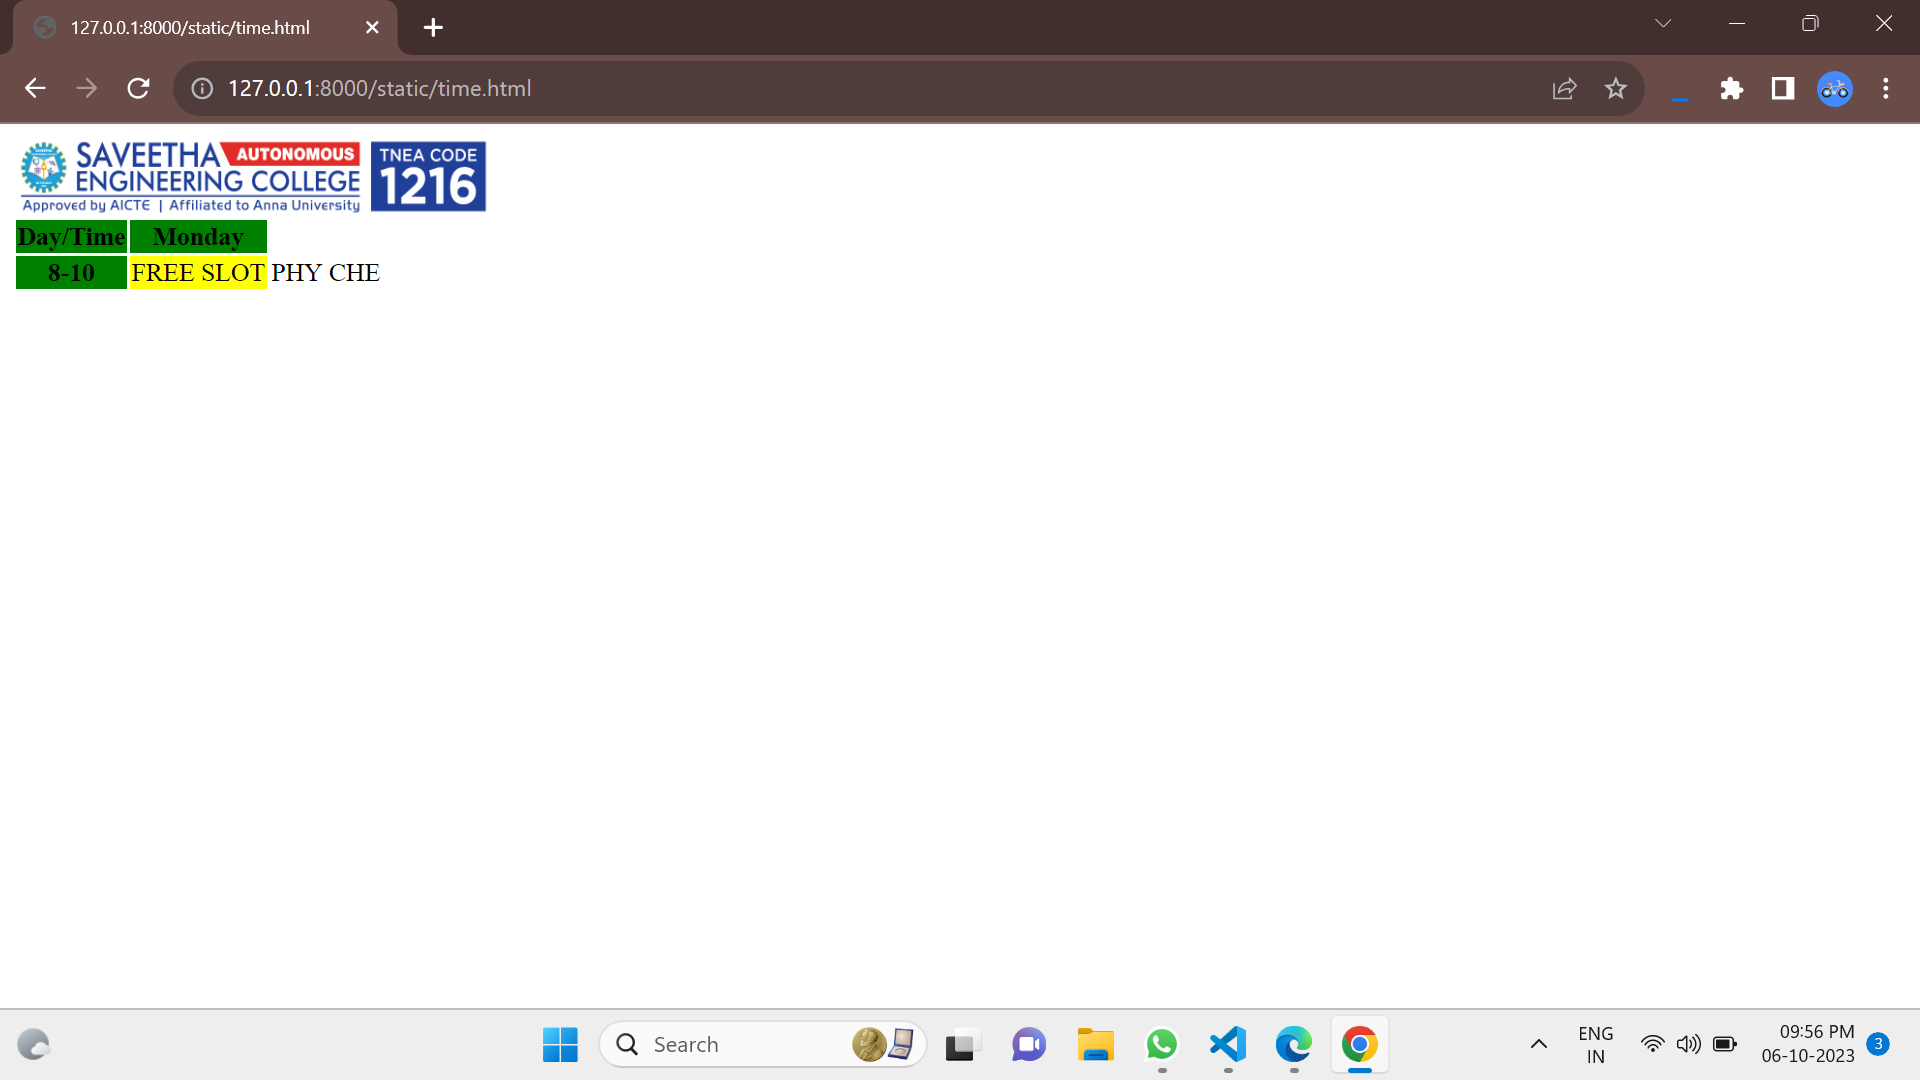
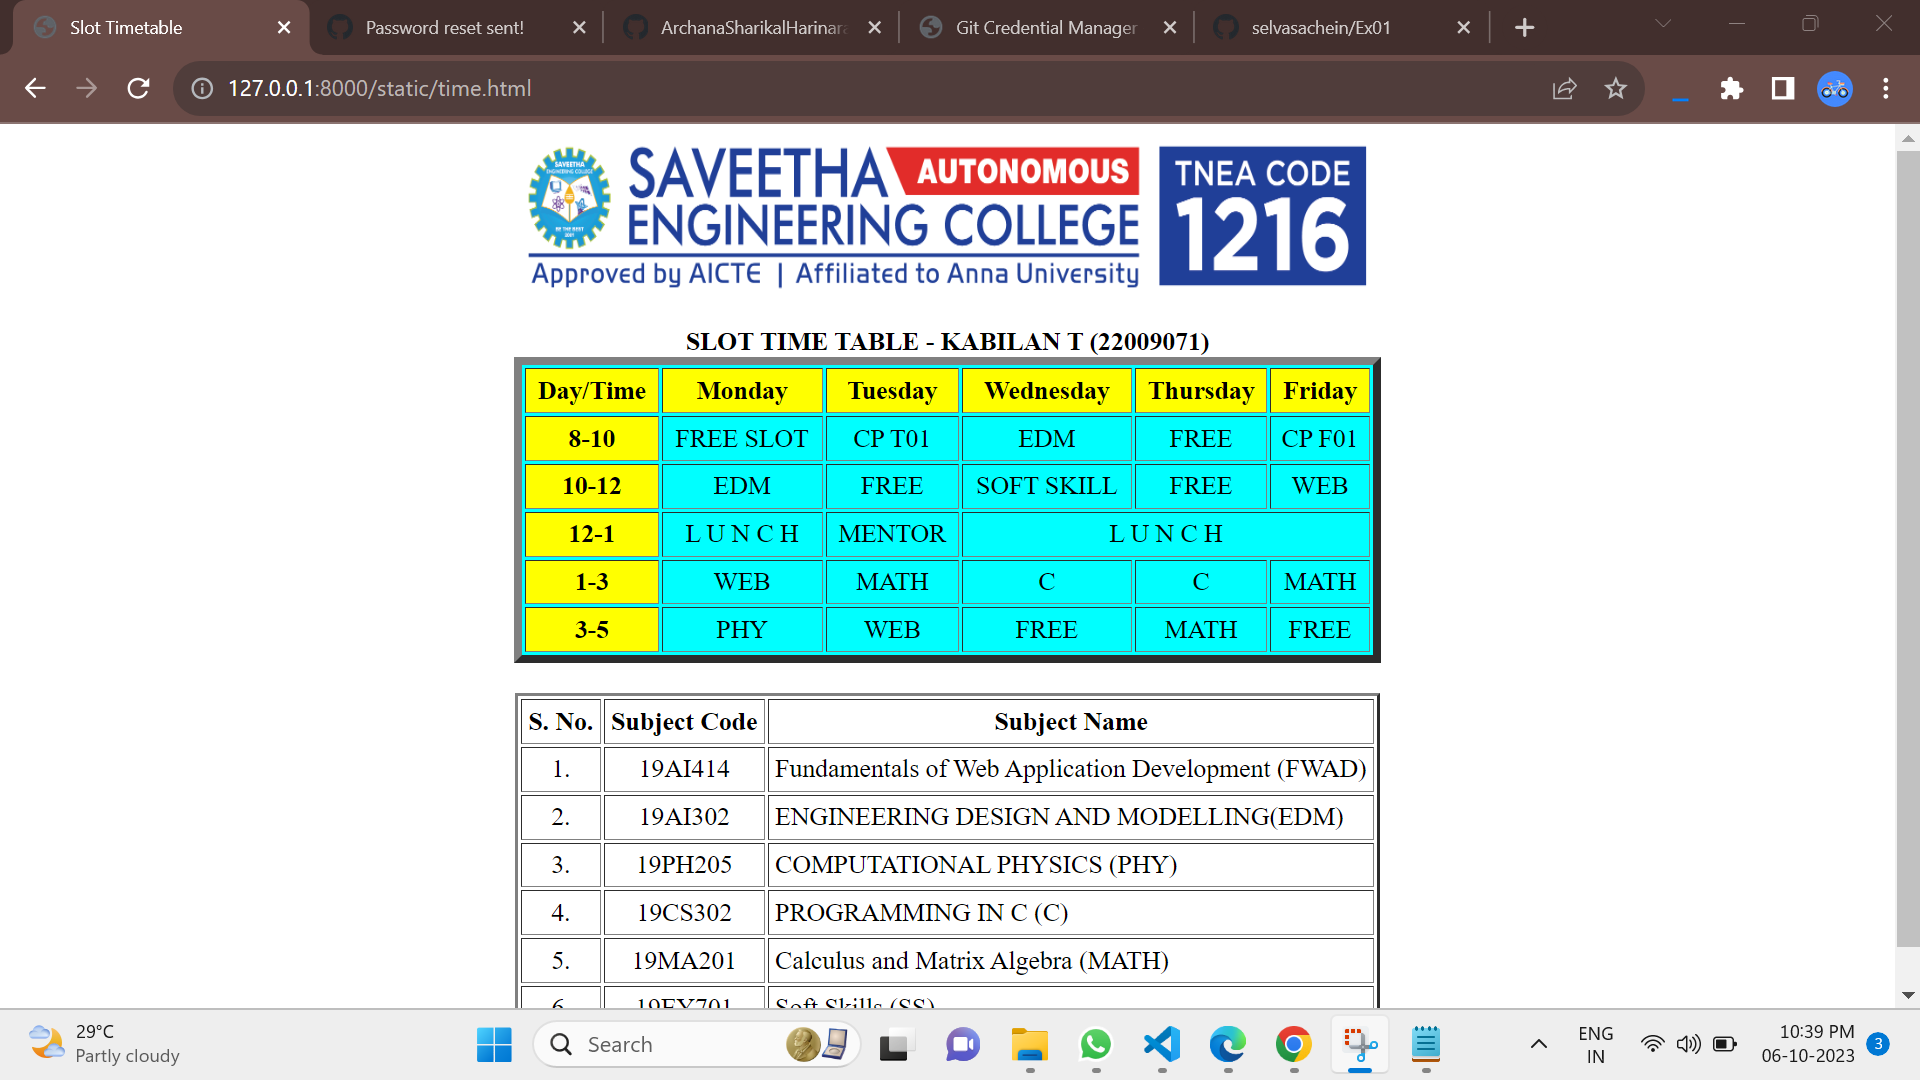
success

diff --git a/kabilan/newapp/static/time.html b/kabilan/newapp/static/time.html
@@ -1,17 +1,100 @@
-<html>
-    <body>
-        <img src="logo.png" width="300" height="50">
-        <table>
-            <tr bgcolor="green">
-                <th>Day/Time</th>
-                <th>Monday</th>
-            </tr>
-            <tr>
-                <th bgcolor="green">8-10</th>
-                <td bgcolor="yellow" colspan="3">FREE SLOT</td>
-                <td>PHY</td>
-                <td>CHE</td>
-            </tr>
-        </table>
-    </body>
+<!DOCTYPE html>
+<html lang="en">
+<head>
+<title>Slot Timetable</title>
+</head>
+<body>
+<center>
+<img src="logo.png" height="100" width="540">
+</center>
+<br>
+<table align="center" width="540" cellspacing="2" cellpadding="4" border="5" bgcolor="cyan">
+<caption><b>SLOT TIME TABLE - KABILAN T (22009071)</b></caption>
+<tr align="center">
+<th bgcolor="yellow">Day/Time</th>
+<th bgcolor="yellow">Monday</th>
+<th bgcolor="yellow">Tuesday</th>
+<th bgcolor="yellow">Wednesday</th>
+<th bgcolor="yellow">Thursday</th>
+<th bgcolor="yellow">Friday</th>
+</tr>
+<tr align="center">
+<th bgcolor="yellow">8-10</th>
+<td colspan="1">FREE SLOT</td>
+<td>CP T01</td>
+<td>EDM</td>
+<td>FREE</td>
+<td>CP F01</td>
+
+</tr>
+<tr align="center">
+<th bgcolor="yellow">10-12</th>
+<td>EDM</td>
+<td>FREE</td>
+<td>SOFT SKILL</td>
+<td>FREE</td>
+<td>WEB</td>
+</tr>
+<tr>
+<th bgcolor="yellow">12-1</th>
+<td colspan="1" align="center">L U N C H</td>
+<td colspan="1" align="center">MENTOR</td>
+<td colspan="3" align="center"> L  U  N  C  H</td>
+</tr>
+<tr align="center">
+<th bgcolor="yellow">1-3</th>
+<td colspan="1">WEB</td>
+<td>MATH</td>
+<td>C</td>
+<td>C</td>
+<td>MATH</td>
+</tr>
+<tr align="center">
+<th bgcolor="yellow">3-5</th>
+<td colspan="1"> PHY </td>
+<td>WEB</td>
+<td>FREE</td>
+<td>MATH</td>
+<td>FREE</td>
+</tr>
+</table>
+<br>
+<table align="center" cellspacing="2" cellpadding="4" border="2">
+<tr align="center">
+<th>S. No.</th>
+<th>Subject Code</th>
+<th>Subject Name</th>
+</tr>
+<tr>
+<td align="center">1.</td>
+<td align="center">19AI414</td>
+<td>Fundamentals of Web Application Development (FWAD)</td>
+</tr>
+<tr>
+<td align="center">2.</td>
+<td align="center">19AI302</td>
+<td>ENGINEERING DESIGN AND MODELLING(EDM)</td>
+</tr>
+<tr>
+<td align="center">3.</td>
+<td align="center">19PH205</td>
+<td>COMPUTATIONAL PHYSICS (PHY)</td>
+</tr>
+<tr>
+<td align="center">4.</td>
+<td align="center">19CS302</td>
+<td>PROGRAMMING IN C (C)</td>
+</tr>
+<tr>
+<td align="center">5.</td>
+<td align="center">19MA201</td>
+<td>Calculus and Matrix Algebra (MATH)</td>
+</tr>
+<tr>
+<td align="center">6.</td>
+<td align="center">19EY701</td>
+<td>Soft Skills (SS)</td>
+</tr>
+</table>
+</body>
 </html>

diff --git a/README.md b/README.md
@@ -24,22 +24,105 @@ Execute the program using runserver command.
 
 ## CODE
 ```
-<html>
-    <body>
-        <img src="logo.png" width="300" height="50">
-        <table>
-            <tr bgcolor="green">
-                <th>Day/Time</th>
-                <th>Monday</th>
-            </tr>
-            <tr>
-                <th bgcolor="green">8-10</th>
-                <td bgcolor="yellow" colspan="3">FREE SLOT</td>
-                <td>PHY</td>
-                <td>CHE</td>
-            </tr>
-        </table>
-    </body>
+<!DOCTYPE html>
+<html lang="en">
+<head>
+<title>Slot Timetable</title>
+</head>
+<body>
+<center>
+<img src="logo.png" height="100" width="540">
+</center>
+<br>
+<table align="center" width="540" cellspacing="2" cellpadding="4" border="5" bgcolor="cyan">
+<caption><b>SLOT TIME TABLE - KABILAN T (22009071)</b></caption>
+<tr align="center">
+<th bgcolor="yellow">Day/Time</th>
+<th bgcolor="yellow">Monday</th>
+<th bgcolor="yellow">Tuesday</th>
+<th bgcolor="yellow">Wednesday</th>
+<th bgcolor="yellow">Thursday</th>
+<th bgcolor="yellow">Friday</th>
+</tr>
+<tr align="center">
+<th bgcolor="yellow">8-10</th>
+<td colspan="1">FREE SLOT</td>
+<td>CP T01</td>
+<td>EDM</td>
+<td>FREE</td>
+<td>CP F01</td>
+
+</tr>
+<tr align="center">
+<th bgcolor="yellow">10-12</th>
+<td>EDM</td>
+<td>FREE</td>
+<td>SOFT SKILL</td>
+<td>FREE</td>
+<td>WEB</td>
+</tr>
+<tr>
+<th bgcolor="yellow">12-1</th>
+<td colspan="1" align="center">L U N C H</td>
+<td colspan="1" align="center">MENTOR</td>
+<td colspan="3" align="center"> L  U  N  C  H</td>
+</tr>
+<tr align="center">
+<th bgcolor="yellow">1-3</th>
+<td colspan="1">WEB</td>
+<td>MATH</td>
+<td>C</td>
+<td>C</td>
+<td>MATH</td>
+</tr>
+<tr align="center">
+<th bgcolor="yellow">3-5</th>
+<td colspan="1"> PHY </td>
+<td>WEB</td>
+<td>FREE</td>
+<td>MATH</td>
+<td>FREE</td>
+</tr>
+</table>
+<br>
+<table align="center" cellspacing="2" cellpadding="4" border="2">
+<tr align="center">
+<th>S. No.</th>
+<th>Subject Code</th>
+<th>Subject Name</th>
+</tr>
+<tr>
+<td align="center">1.</td>
+<td align="center">19AI414</td>
+<td>Fundamentals of Web Application Development (FWAD)</td>
+</tr>
+<tr>
+<td align="center">2.</td>
+<td align="center">19AI302</td>
+<td>ENGINEERING DESIGN AND MODELLING(EDM)</td>
+</tr>
+<tr>
+<td align="center">3.</td>
+<td align="center">19PH205</td>
+<td>COMPUTATIONAL PHYSICS (PHY)</td>
+</tr>
+<tr>
+<td align="center">4.</td>
+<td align="center">19CS302</td>
+<td>PROGRAMMING IN C (C)</td>
+</tr>
+<tr>
+<td align="center">5.</td>
+<td align="center">19MA201</td>
+<td>Calculus and Matrix Algebra (MATH)</td>
+</tr>
+<tr>
+<td align="center">6.</td>
+<td align="center">19EY701</td>
+<td>Soft Skills (SS)</td>
+</tr>
+</table>
+</body>
 </html>
 ```
 ## OUTPUT
